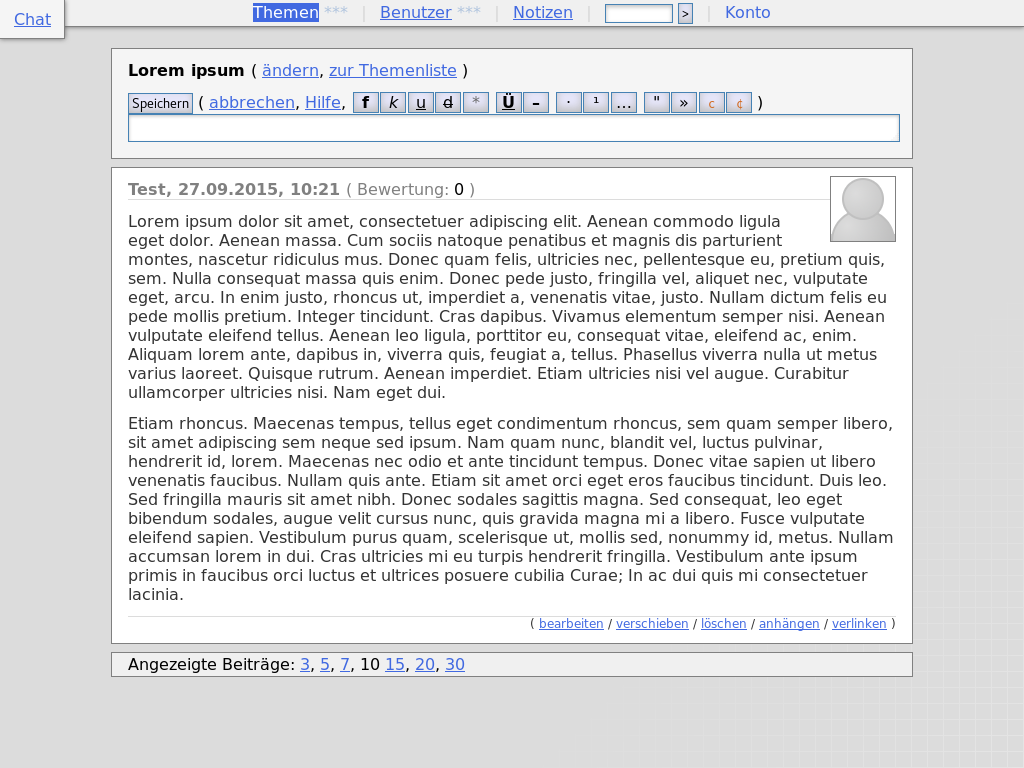
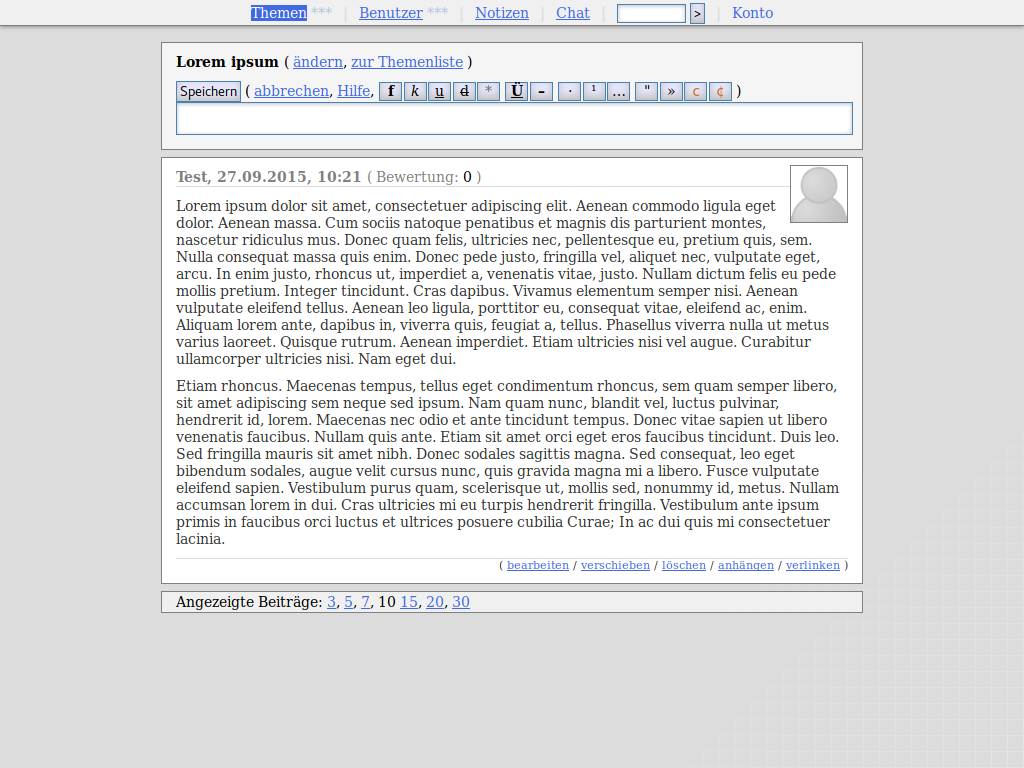
Was vergessen

diff --git a/public/js/features.js b/public/js/features.js
@@ -42,9 +42,18 @@ ffcdata.features.init = function(){
      ************************************************************************/
     var activate_chatbutton = function(){
         if ( ffcdata.isinchat !== '' ) return;
-        var chatb = document.getElementById('chatbutton');
+
+        var chatb = document.getElementById('chatuserlist');
         if ( chatb )
             chatb.className = 'popuparrow forumoptionpopup menuentry';
+
+        var chats = document.getElementById('menuchatseparator');
+        if ( chats )
+            chats.className = 'menubarseparator';
+
+        var chats = document.getElementById('chatlink');
+        if ( chats )
+            chats.className = 'chatlink';
     };
 
     /************************************************************************
@@ -97,8 +106,8 @@ ffcdata.features.init = function(){
      * Auto-Refresh-Chatbutton setzen
      ************************************************************************/
     var set_chatbutton = function(users) {
+        var chatbutton = document.getElementById('chatuserlist');
         if ( users && users.length > 0 ) {
-            var chatbutton = document.getElementById('chatuserlist');
             if ( chatbutton ) {
                 var chatuserstr = '<p><a href="' + ffcdata.chaturl
                     + '" target="_blank">Chat</a>:</p>';

diff --git a/public/theme/chat.css b/public/theme/chat.css
@@ -44,7 +44,7 @@ table > tr > td > div, table textarea {
 }
 #buttonlist {
     margin: 0 .25em;
-    padding: 0 .25em;
+    padding: .25em;
     overflow: visible;
     text-align: center;
     border: .1em gray solid;
@@ -174,6 +174,7 @@ input#refreshtime {
 #buttonlist table {
     width: 100%;
     border-collapse: collapse;
+    margin: 0;
 }
 #buttonlist td {
     width: 5em;
